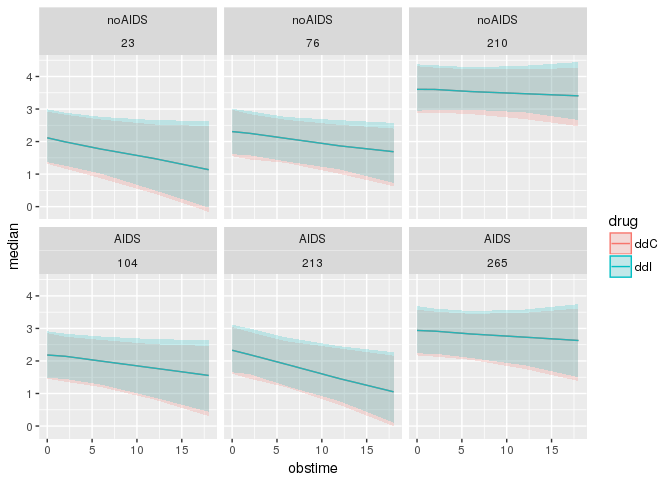
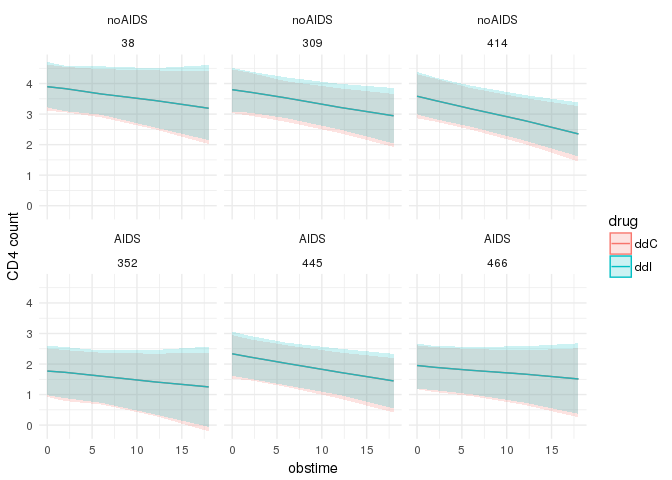
update plot axis label

diff --git a/summarize_aids_fit.md b/summarize_aids_fit.md
@@ -651,7 +651,9 @@ patient_ppint %>%
   ggplot(., aes(x = obstime, y = median, group = drug, colour = drug)) + 
   geom_line() +
   facet_wrap(prevOI ~ patient) +
-  geom_ribbon(aes(ymin = `5%`, ymax = `95%`, colour = NULL, fill = drug), alpha = 0.2)
+  geom_ribbon(aes(ymin = `5%`, ymax = `95%`, colour = NULL, fill = drug), alpha = 0.2) +
+  theme_minimal() +
+  scale_y_continuous('CD4 count')
 ```
 
     ## Warning in bind_rows_(x, .id): binding factor and character vector,
